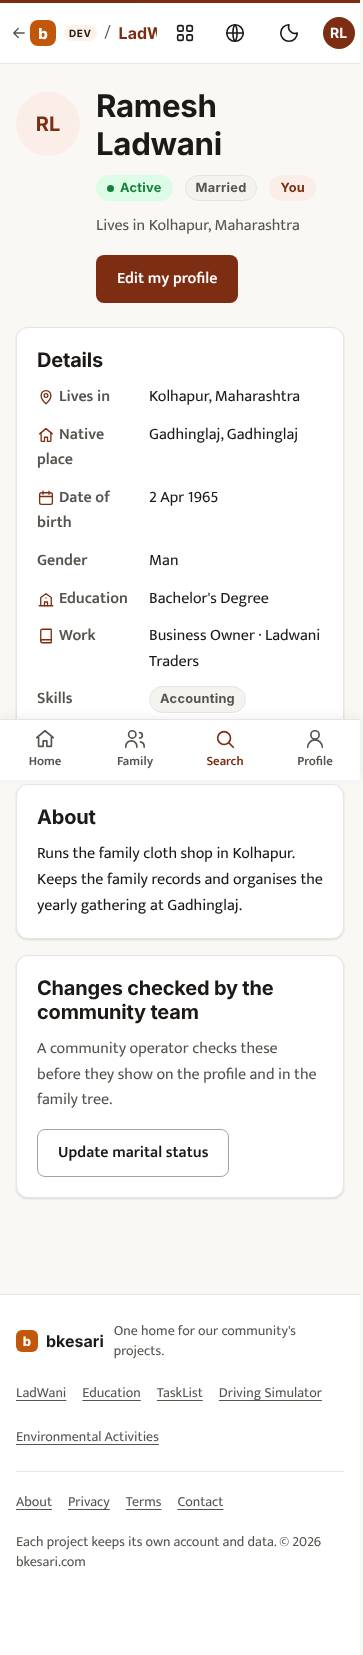
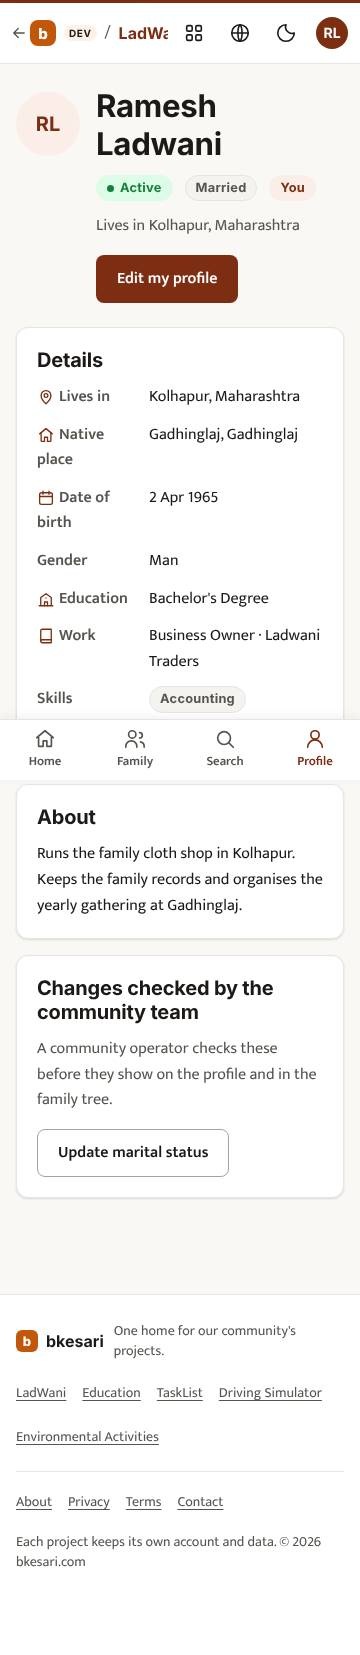
WIP: LadWani screens (in progress)
Claude-Session: https://claude.ai/code/session_01CqprRddpjVeLYpQqJrF8HL

diff --git a/ladwani/apps/web/src/components/ui.tsx b/ladwani/apps/web/src/components/ui.tsx
@@ -125,6 +125,9 @@ export function TopBar() {
 
   if (!user) return null
   const hrefOf = (item: NavItem) => (item.href === '/family' ? familyHref : item.href)
+  // Your own profile page is "Profile", not "Search" (which every other /members/ page is).
+  const ownProfile = !!user.memberId && path === `/members/${user.memberId}`
+  const current = (item: NavItem) => (ownProfile ? item.href === '/profile/edit' : isCurrent(path, item))
   const visible = NAV_ITEMS.filter((item) => !item.show || item.show(user.roles))
 
   return (
@@ -133,7 +136,7 @@ export function TopBar() {
         <ul>
           {visible.map((item) => (
             <li key={item.href}>
-              <Link href={hrefOf(item)} aria-current={isCurrent(path, item) ? 'page' : undefined}>
+              <Link href={hrefOf(item)} aria-current={current(item) ? 'page' : undefined}>
                 <Icon name={item.icon} />
                 <span>{t(item.label)}</span>
                 {item.href === '/notifications' && unread > 0 && (
@@ -154,7 +157,7 @@ export function TopBar() {
       </nav>
       <nav className="k-bottomnav" aria-label={t('nav.label')}>
         {PHONE_ITEMS.map((item) => (
-          <Link key={item.href} href={hrefOf(item)} aria-current={isCurrent(path, item) ? 'page' : undefined}>
+          <Link key={item.href} href={hrefOf(item)} aria-current={current(item) ? 'page' : undefined}>
             <Icon name={item.icon} />
             <span>{t(item.label)}</span>
           </Link>
